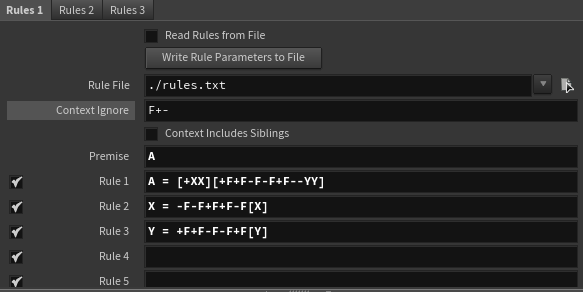
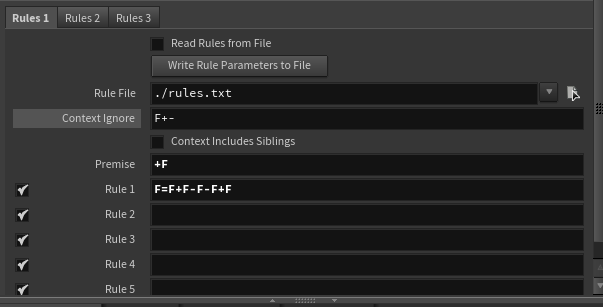
dandelion

diff --git a/README.md b/README.md
@@ -1,4 +1,4 @@
-# lab03-grammars
+# lab03-grammars | Aboudi Rai
 Let's practice using grammars! For this lab, please pull up the L-system node in Houdini.
 
 ## 1. Wheat grammar puzzle
@@ -25,7 +25,7 @@ src="https://user-images.githubusercontent.com/1758825/193949910-928e5993-ce26-4
 <img width="400" alt="" src="img/square-rule.png">
 
 ### My Results
-<img width="400" alt="" src="img/square-result.png">
+<img width="400" alt="" src="img/square-result.">
 
 ## 3. Custom plant
 Choose a plant in the world. Working off a reference, design a grammar that mimics the structure of
@@ -38,12 +38,17 @@ iterations of your output plant.
 <img width="400" alt="square3" src="img/plant-ref.jpg">
 
 ### My Grammar
-<img width="" alt="" src="">
+<img width="" alt="" src="img/plant-rule.png">
 
 ### My Result
-<img width="" alt="" src="">
+<img width="" alt="" src="img/plant-result.png">
 
 ### Discussion
+Originally wanting to model a lilyturf house plant, I was playing around with the 3D angle modifiers
+and found myself creating branches from all 3D
+directions. I was immediately reminded of a dandelion, and went ahead and created a long wiggly
+stem, with a node surrounded by white seedlings.
+
 
 ## Submission
 - Create a pull request against this repository
